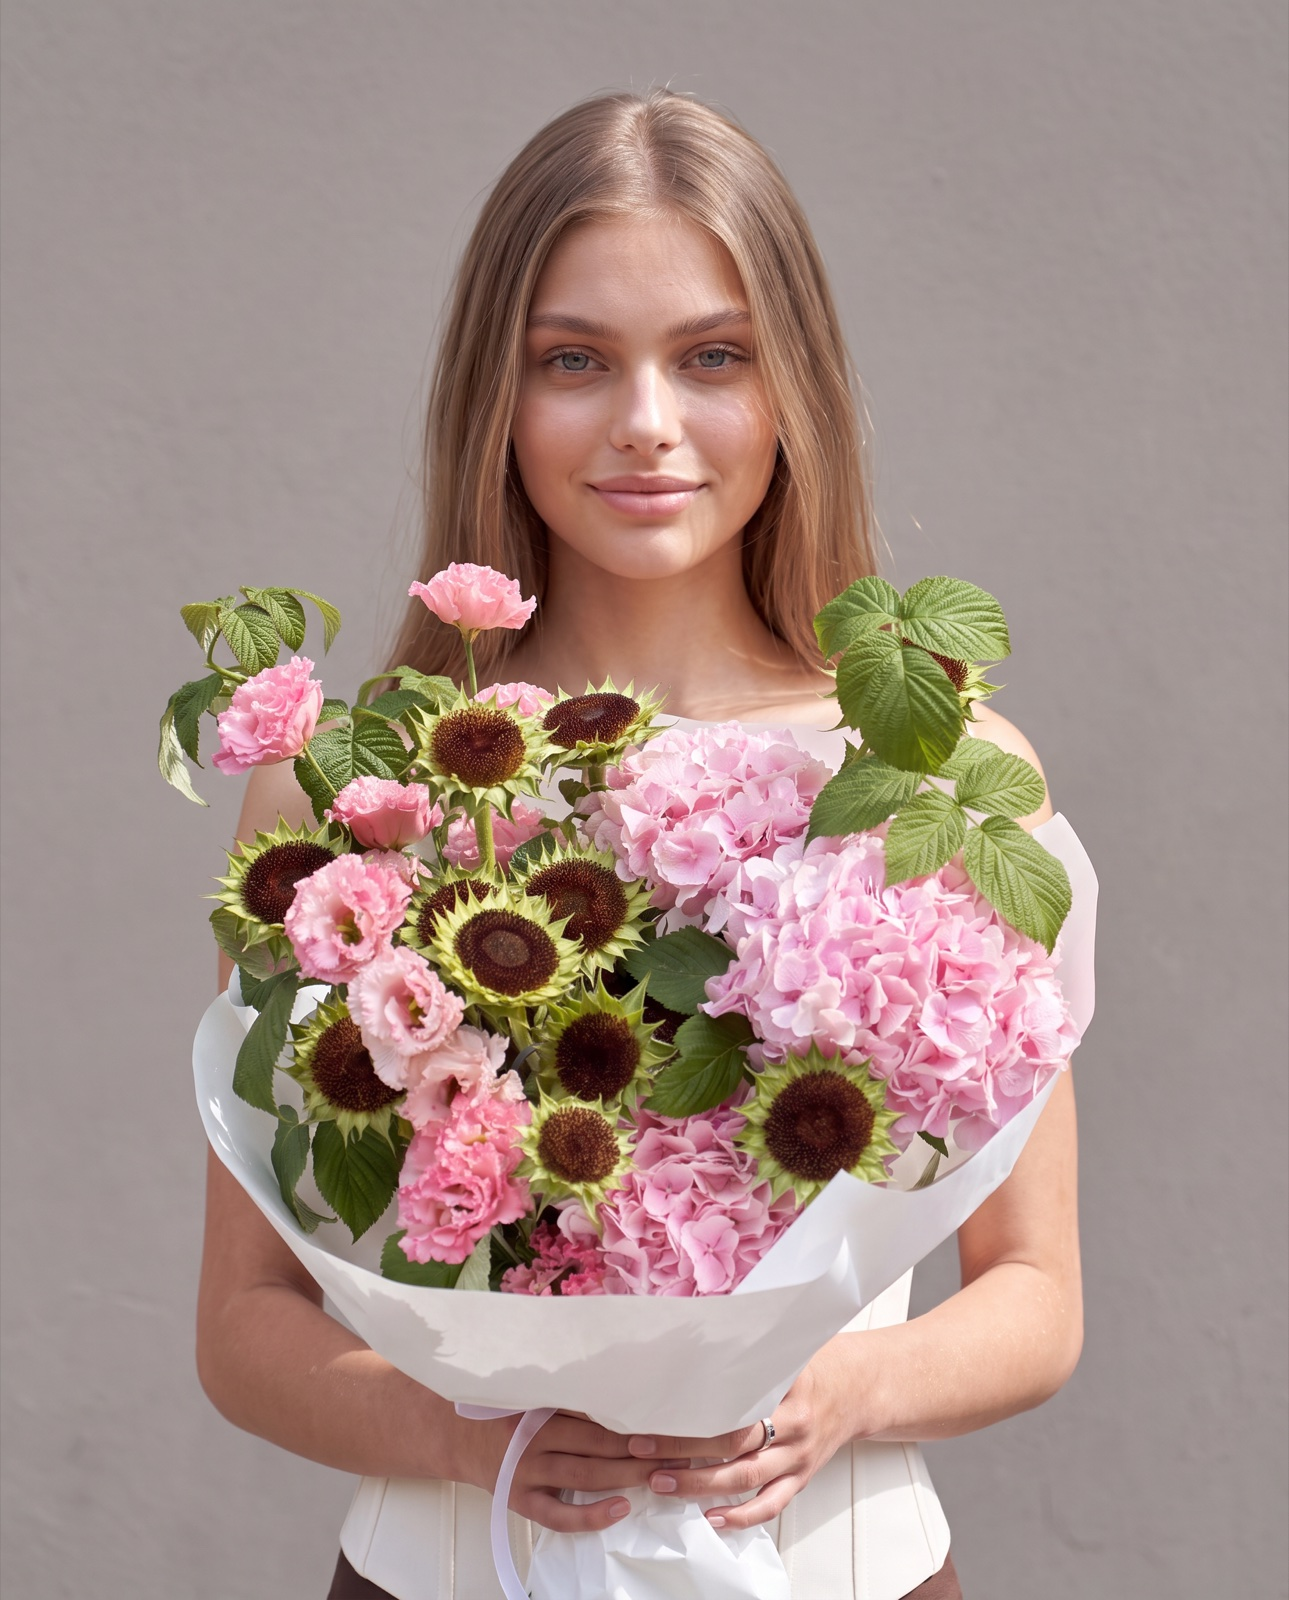
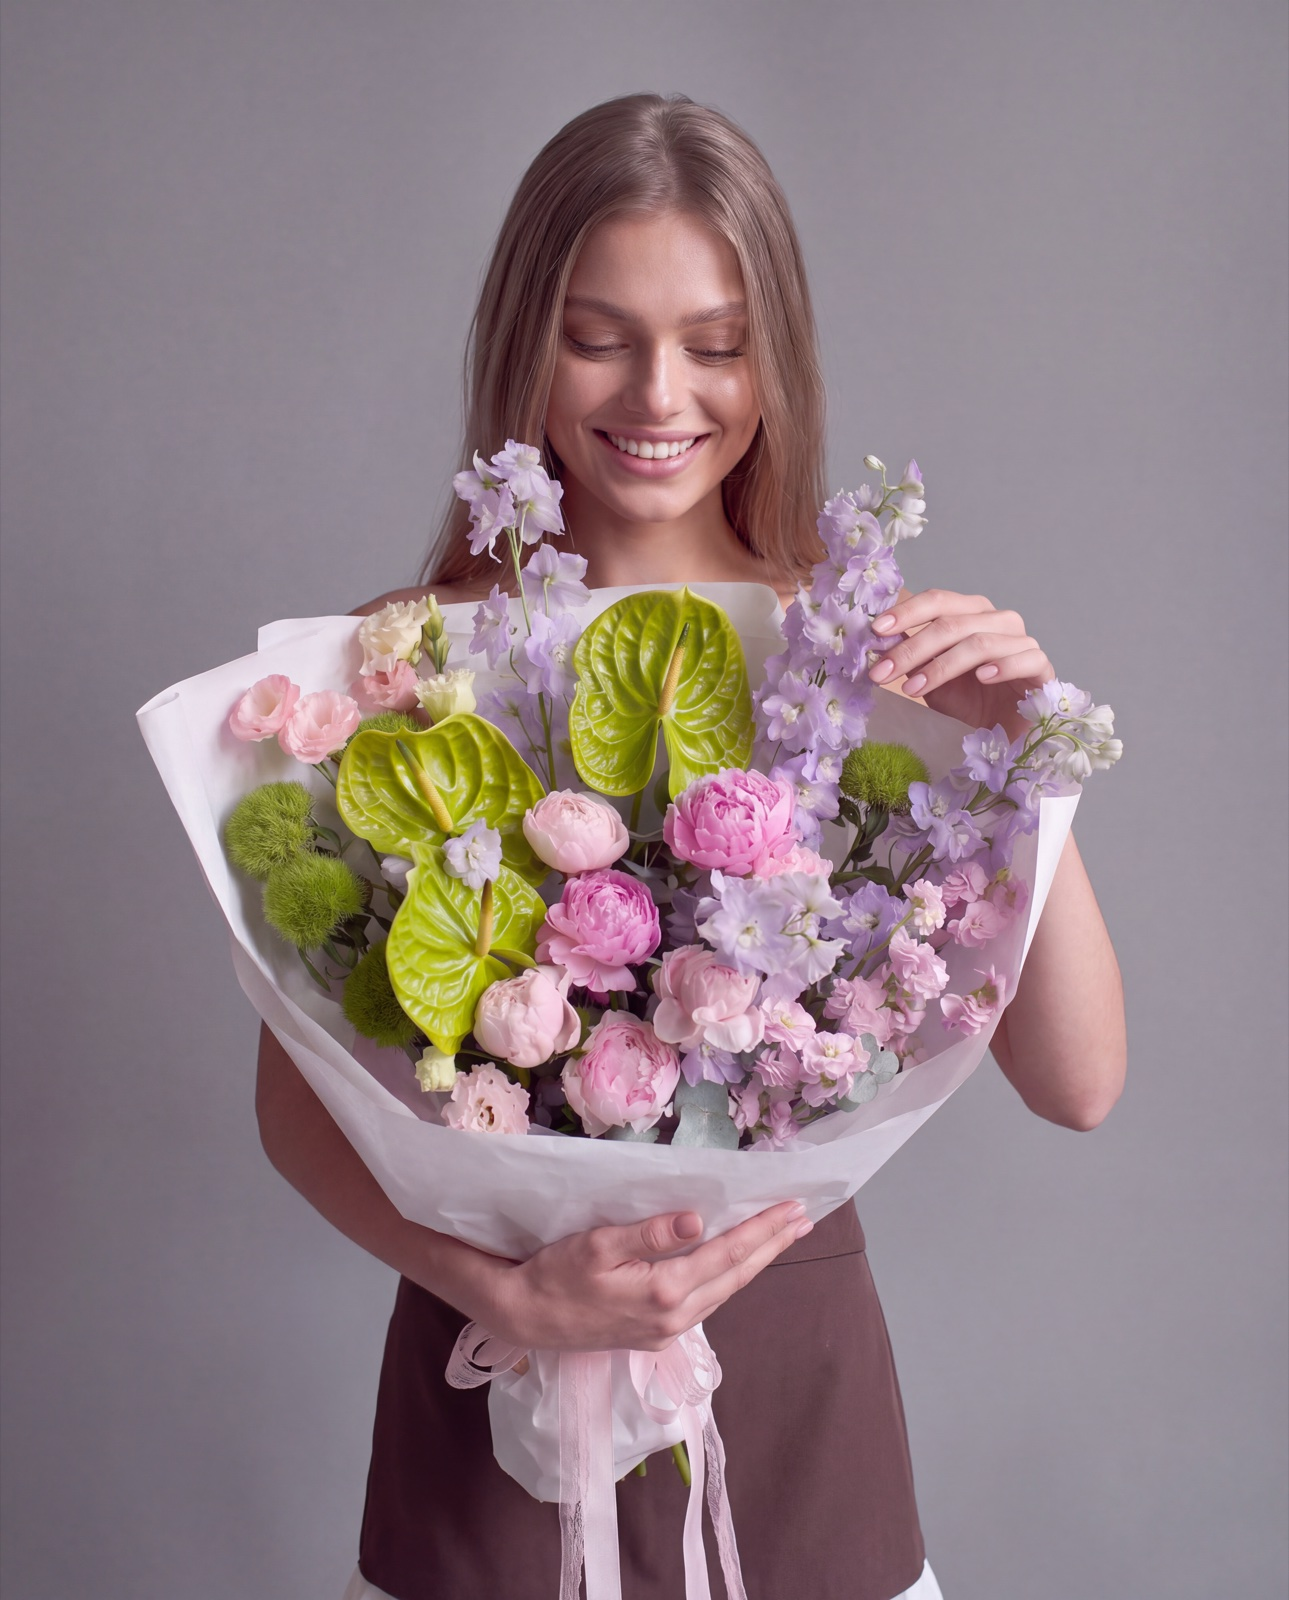
Карточка товара: полностью новая серия фото (антуриумы+пионы+дельфиниум)
- все 6 кадров заменены, трио ракурсов: за букетом / макро / эмоция
- тексты и разметка под новый состав (гортензии и диван вычищены)
- p8 ленты — новый кадр «для хиро» (?v=3), кэш-обманки на всех кадрах

diff --git a/ai/razbory/kartochka/index.html b/ai/razbory/kartochka/index.html
@@ -25,7 +25,7 @@
    "headline": "Простая карточка товара: фото букета с моделью нейросетью",
    "description": "Разбор сборки карточки товара для цветочного магазина: настоящий букет, своя модель с паспортом и пять кадров для страницы товара — без студии, фотографа и модели.",
    "datePublished": "2026-08-13",
-   "dateModified": "2026-08-13",
+   "dateModified": "2026-08-18",
    "inLanguage": "ru-RU",
    "mainEntityOfPage": "https://mfandreeva.ru/ai/razbory/kartochka/",
    "image": "https://mfandreeva.ru/ai/img/razbory/kartochka/1-buket.jpg",
@@ -66,7 +66,7 @@
     {"@type":"Question","name":"Зачем в карточке товара человек?",
      "acceptedAnswer":{"@type":"Answer","text":"Человек в кадре даёт масштаб: без него один и тот же букет кажется меньше, чем есть. Плюс видно, как букет держать и нести — покупатель примеряет его на себя ещё до заказа."}},
     {"@type":"Question","name":"Это один и тот же букет во всех кадрах?",
-     "acceptedAnswer":{"@type":"Answer","text":"Да. Букет настоящий и один на всю карточку: гортензии, эустома и декоративные подсолнечники не меняются от кадра к кадру. Нейросеть меняет позу модели и ракурс, но не состав букета."}},
+     "acceptedAnswer":{"@type":"Answer","text":"Да. Букет настоящий и один на всю карточку: антуриумы, пионы и дельфиниум не меняются от кадра к кадру. Нейросеть меняет позу модели и ракурс, но не состав букета."}},
     {"@type":"Question","name":"Почему модель та же, что в других разборах?",
      "acceptedAnswer":{"@type":"Answer","text":"В этом и смысл своей модели: её создают один раз, а дальше она снимается во всех карточках и сериях. Одна героиня в одном образе делает витрину спокойной — покупатель смотрит на букеты, а не на смену лиц."}},
     {"@type":"Question","name":"Сколько кадров нужно карточке товара?",
@@ -364,7 +364,7 @@ h2{font-family:var(--disp);font-weight:800;text-transform:uppercase;letter-spaci
   </div>
   <div class="by mono">
     <span>Мария Андреева · дизайнер цифрового контента, продюсер брендов</span>
-    <span>Обновлено 13.08.2026</span>
+    <span>Обновлено 18.08.2026</span>
   </div>
   <div class="kicker mono">Разбор 03 · Карточки</div>
   <h1>Простая карточка товара</h1>
@@ -415,12 +415,12 @@ h2{font-family:var(--disp);font-weight:800;text-transform:uppercase;letter-spaci
   <div class="row3">
 
     <figure class="card">
-      <img src="../../img/razbory/kartochka/1-buket.jpg" alt="Букет крупным планом: гортензии, эустома и декоративные подсолнечники" loading="lazy" decoding="async">
+      <img src="../../img/razbory/kartochka/1-buket.jpg?v=2" alt="Букет крупным планом: антуриумы, пионы и дельфиниум" loading="lazy" decoding="async">
       <figcaption class="cap">
         <div class="n">01</div>
         <h3>Букет — настоящий</h3>
-        <p>Карточка продаёт конкретный букет, поэтому он в кадре настоящий: гортензии,
-           эустома, декоративные подсолнечники. Состав, сборка и пропорции — реальные.</p>
+        <p>Карточка продаёт конкретный букет, поэтому он в кадре настоящий: зелёные
+           антуриумы, пионы, дельфиниум. Состав, сборка и пропорции — реальные.</p>
         <p>Покупатель сверит то, что привезли, с тем, что видел на сайте. Это единственный
            кадровый формат, где расхождение сразу превращается в претензию.</p>
         <p class="rule">Правило: букет из магазина, не из нейросети.</p>
@@ -428,7 +428,7 @@ h2{font-family:var(--disp);font-weight:800;text-transform:uppercase;letter-spaci
     </figure>
 
     <figure class="card">
-      <img src="../../img/razbory/kartochka/2-model.jpg" alt="Модель с букетом, фронтальный портрет на нейтральном фоне" loading="lazy" decoding="async">
+      <img src="../../img/razbory/kartochka/2-model.jpg?v=2" alt="Модель с букетом антуриумов и пионов, портрет на сером фоне" loading="lazy" decoding="async">
       <figcaption class="cap">
         <div class="n">02</div>
         <h3>Модель — из паспорта</h3>
@@ -441,7 +441,7 @@ h2{font-family:var(--disp);font-weight:800;text-transform:uppercase;letter-spaci
     </figure>
 
     <figure class="card">
-      <img src="../../img/razbory/kartochka/3-scena.jpg" alt="Модель с букетом в полный рост на сером фоне — масштаб букета" loading="lazy" decoding="async">
+      <img src="../../img/razbory/kartochka/3-scena.jpg?v=2" alt="Модель с букетом в полный рост — настоящий масштаб букета" loading="lazy" decoding="async">
       <figcaption class="cap">
         <div class="n">03</div>
         <h3>Сцена карточки</h3>
@@ -463,19 +463,19 @@ h2{font-family:var(--disp);font-weight:800;text-transform:uppercase;letter-spaci
 
   <figure class="band">
     <div class="trio">
-      <img src="../../img/razbory/kartochka/4-rakurs-a.jpg" alt="Главный кадр карточки: букет крупнее лица, модель за букетом" loading="lazy" decoding="async">
-      <img src="../../img/razbory/kartochka/4-rakurs-b.jpg" alt="Кадр-настроение: модель с букетом сидит на диване" loading="lazy" decoding="async">
-      <img src="../../img/razbory/kartochka/4-rakurs-c.jpg" alt="Модель смотрит на букет и улыбается — живая эмоция" loading="lazy" decoding="async">
+      <img src="../../img/razbory/kartochka/4-rakurs-a.jpg?v=2" alt="Главный кадр карточки: букет крупнее лица, модель за букетом" loading="lazy" decoding="async">
+      <img src="../../img/razbory/kartochka/4-rakurs-b.jpg?v=2" alt="Макро букета: антуриумы и пионы крупно, детали состава" loading="lazy" decoding="async">
+      <img src="../../img/razbory/kartochka/4-rakurs-c.jpg?v=2" alt="Модель улыбается, обнимая букет — живая эмоция" loading="lazy" decoding="async">
     </div>
     <figcaption class="cap">
       <div class="n">04</div>
       <h3>Снимаем ракурсы</h3>
       <div class="body">
         <p>Главный кадр — тот, где букет крупнее лица: модель прячется за цветами,
-           и глаз покупателя остаётся на товаре. Дальше — кадр-настроение на диване
+           и глаз покупателя остаётся на товаре. Дальше — макро с деталями состава
            и живая эмоция со взглядом на букет.</p>
-        <p>Вместе с полным ростом и макро получается пять кадров — полная страница
-           товара с одного захода: главный, масштаб, настроение, эмоция, детали сортов.</p>
+        <p>Вместе с портретом и полным ростом получается пять кадров — полная страница
+           товара с одного захода: главный, масштаб, детали, эмоция, лицо бренда.</p>
       </div>
     </figcaption>
   </figure>
@@ -533,9 +533,9 @@ h2{font-family:var(--disp);font-weight:800;text-transform:uppercase;letter-spaci
   </div>
   <div class="q">
     <b>Это один и тот же букет во всех кадрах?</b>
-    <p>Да. Букет настоящий и один на всю карточку: гортензии, эустома и декоративные
-       подсолнечники не меняются от кадра к кадру. Нейросеть меняет позу модели
-       и ракурс, но не состав букета.</p>
+    <p>Да. Букет настоящий и один на всю карточку: антуриумы, пионы и дельфиниум
+       не меняются от кадра к кадру. Нейросеть меняет позу модели и ракурс,
+       но не состав букета.</p>
   </div>
   <div class="q">
     <b>Почему модель та же, что в других разборах?</b>

diff --git a/ai/besplatno/index.html b/ai/besplatno/index.html
@@ -551,12 +551,12 @@ h2 em{font-style:normal;color:var(--red)}
 <div class="lane-w"><div class="lane" id="lane">
     <a class="it" style="--w:31vw;--h:72%" href="../razbory/model/"><span class="tag"><s></s>Своя модель</span><span class="frame"><span class="sl on"><img src="../img/hero/p6.jpg" alt="Своя модель для съёмок с букетом"></span></span></a>
     <a class="it" style="--w:37vw;--h:70%" href="../razbory/ulitsa/"><span class="tag"><s></s>Съёмка на улице</span><span class="frame"><span class="sl on"><img src="../img/hero/p7.jpg" alt="Уличная серия: модель с букетом георгинов"></span></span></a>
-    <a class="it" style="--w:34vw;--h:84%" href="../razbory/kartochka/"><span class="tag"><s></s>Карточка товара</span><span class="frame"><span class="sl on"><img src="../img/hero/p8.jpg?v=2" alt="Карточка товара: модель с букетом"></span></span></a>
+    <a class="it" style="--w:34vw;--h:84%" href="../razbory/kartochka/"><span class="tag"><s></s>Карточка товара</span><span class="frame"><span class="sl on"><img src="../img/hero/p8.jpg?v=3" alt="Карточка товара: модель с букетом"></span></span></a>
     <a class="it" style="--w:39vw;--h:92%" href="../razbory/banner/"><span class="tag"><s></s>Баннеры</span><span class="frame"><span class="sl on"><img src="../img/hero/p9.jpg?v=2" alt="Баннер для цветочного: модель с букетом в красном"></span></span></a>
     <a class="it" style="--w:44vw;--h:100%" href="../razbory/eskiz/"><span class="tag"><s></s>Собери букет</span><span class="frame"><span class="sl on"><img src="../img/hero/p10.jpg" alt="Эскиз букета из цветов в наличии"></span></span></a>
     <a class="it" style="--w:28vw;--h:60%" href="../razbory/model/"><span class="tag"><s></s>Своя модель</span><span class="frame"><span class="sl on"><img loading="lazy" src="../img/hero/p6.jpg" alt=""></span></span></a>
     <a class="it" style="--w:35vw;--h:66%" href="../razbory/ulitsa/"><span class="tag"><s></s>Съёмка на улице</span><span class="frame"><span class="sl on"><img loading="lazy" src="../img/hero/p7.jpg" alt=""></span></span></a>
-    <a class="it" style="--w:31vw;--h:78%" href="../razbory/kartochka/"><span class="tag"><s></s>Карточка товара</span><span class="frame"><span class="sl on"><img loading="lazy" src="../img/hero/p8.jpg?v=2" alt=""></span></span></a>
+    <a class="it" style="--w:31vw;--h:78%" href="../razbory/kartochka/"><span class="tag"><s></s>Карточка товара</span><span class="frame"><span class="sl on"><img loading="lazy" src="../img/hero/p8.jpg?v=3" alt=""></span></span></a>
     <a class="it" style="--w:37vw;--h:88%" href="../razbory/banner/"><span class="tag"><s></s>Баннеры</span><span class="frame"><span class="sl on"><img loading="lazy" src="../img/hero/p9.jpg?v=2" alt=""></span></span></a>
     <a class="it" style="--w:42vw;--h:100%" href="../razbory/eskiz/"><span class="tag"><s></s>Собери букет</span><span class="frame"><span class="sl on"><img loading="lazy" src="../img/hero/p10.jpg" alt=""></span></span></a>
   </div>
@@ -700,7 +700,7 @@ h2 em{font-style:normal;color:var(--red)}
       <b>Своя модель для съёмок</b><span class="m">паспорт из 8 кадров · 30 мин · 100 ₽ · <i>читать →</i></span></a>
     <a class="li" href="../razbory/ulitsa/" data-img="../img/razbory/ulitsa/4-dvizhenie.jpg">
       <b>Съёмка на улице, которой не было</b><span class="m">6 кадров · 20 мин · 500 ₽ · <i>читать →</i></span></a>
-    <a class="li" href="../razbory/kartochka/" data-img="../img/razbory/kartochka/4-rakurs-a.jpg">
+    <a class="li" href="../razbory/kartochka/" data-img="../img/razbory/kartochka/4-rakurs-a.jpg?v=2">
       <b>Простая карточка товара</b><span class="m">5 кадров · 20 мин · 600 ₽ · <i>читать →</i></span></a>
     <a class="li" href="../razbory/banner/" data-img="../img/razbory/banner/2-povod.jpg">
       <b>Баннер за три минуты</b><span class="m">5 баннеров · 3 мин · 50–60 ₽ · <i>читать →</i></span></a>

diff --git a/ai/razbory/index.html b/ai/razbory/index.html
@@ -200,7 +200,7 @@ a.item:hover{padding-left:clamp(8px,1.4vw,22px)}
          и пять кадров — главный, масштаб, настроение, эмоция, детали.</p>
       <div class="m mono">4 шага · 5 кадров · <i>читать →</i></div>
     </div>
-    <img src="../img/razbory/kartochka/4-rakurs-a.jpg" alt="Главный кадр карточки: букет крупнее лица" loading="lazy" decoding="async">
+    <img src="../img/razbory/kartochka/4-rakurs-a.jpg?v=2" alt="Главный кадр карточки: букет крупнее лица" loading="lazy" decoding="async">
   </a>
 
   <a class="item" href="banner/">
